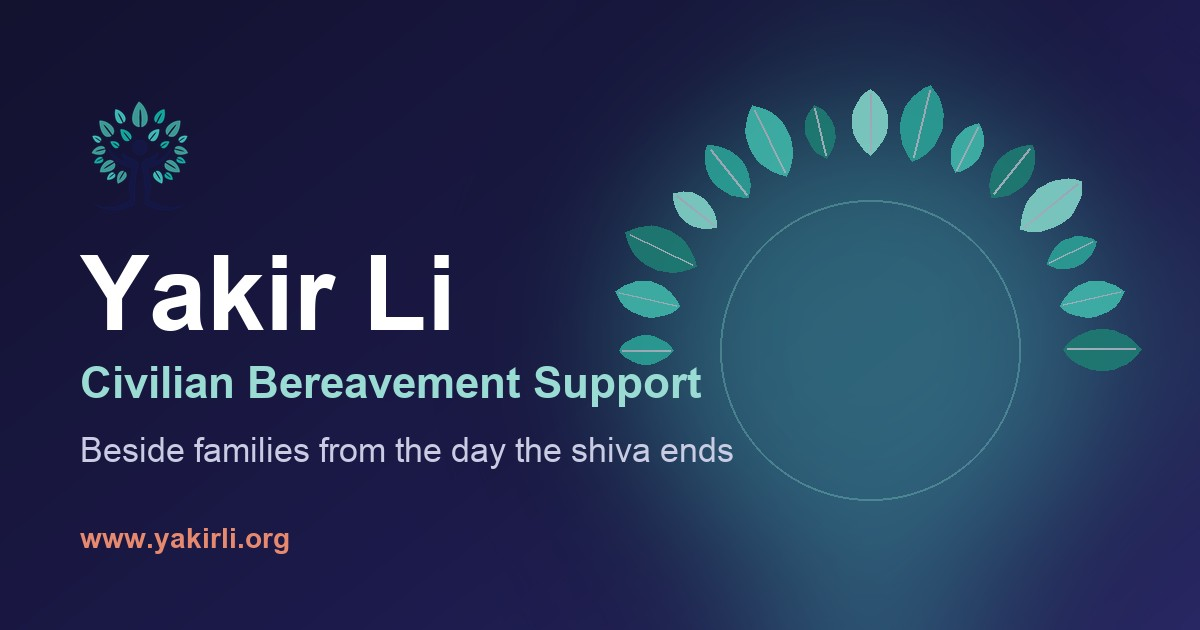
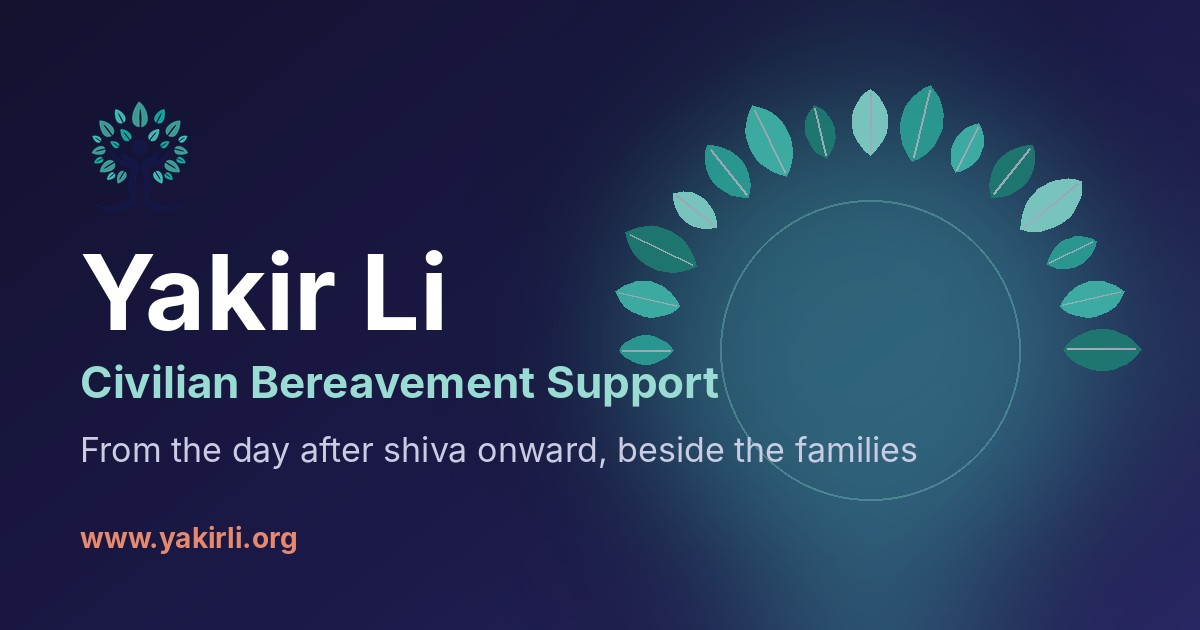
English OG image refreshed with new hero wording; Elishav doc updated
Claude-Session: https://claude.ai/code/session_01HRit7cQmiPQRPYtEwEm3MD

diff --git a/docs/handoff-elishav-11-2026.md b/docs/handoff-elishav-11-2026.md
@@ -2,11 +2,10 @@
 
 מסמך קצר שמשלים את `handoff-site-launch.md` ואת `handoff-current-forms.md` (מ־23.10, חלקם כבר לא עדכניים). נכתב לבקשת פיני.
 
-## 1. תמונת שיתוף (OG) באנגלית – לחדש
-- בעברית התמונה חודשה ב־9.11 עם הכותרת "מהיום השמיני והלאה, לצד המשפחות".
-- באנגלית התמונה `assets/img/og-en.png` / `og-en.jpg` עדיין בניסוח הישן, והאתר באנגלית כבר אומר "From the day after shiva onward, beside the families".
-- היוצר הוא `python3 tools/make_og.py` (Pillow) וצריך גופנים של מק (Assistant, Arial), ולכן אי אפשר להריץ אותו נכון בסביבת הענן שבה Claude עובד. להריץ אצלך, לבדוק את התוצאה ולדחוף.
-- לא חוסם השקה; משפיע על התצוגה של קישור באנגלית בוואטסאפ ובפייסבוק.
+## 1. תמונת שיתוף (OG) באנגלית – חודשה ב־11.11
+- `assets/img/og-en.png` / `og-en.jpg` נוצרו מחדש עם הכותרת "From the day after shiva onward, beside the families", בגופן Inter (הגופן של הגרסה העברית, Assistant, לא זמין בסביבת הענן).
+- אם תרצה גופן זהה לעברית: `python3 tools/make_og.py` עם הגופנים של מק, ואז לדחוף.
+- אחרי הפריסה לרענן את המטמון של הקישור (Facebook Sharing Debugger, וואטסאפ מרענן לבד אחרי זמן).
 
 ## 2. טפסים – מה קיים באתר ומה עדיין לא
 ### קיימים (קישור Google Form בקוד)
